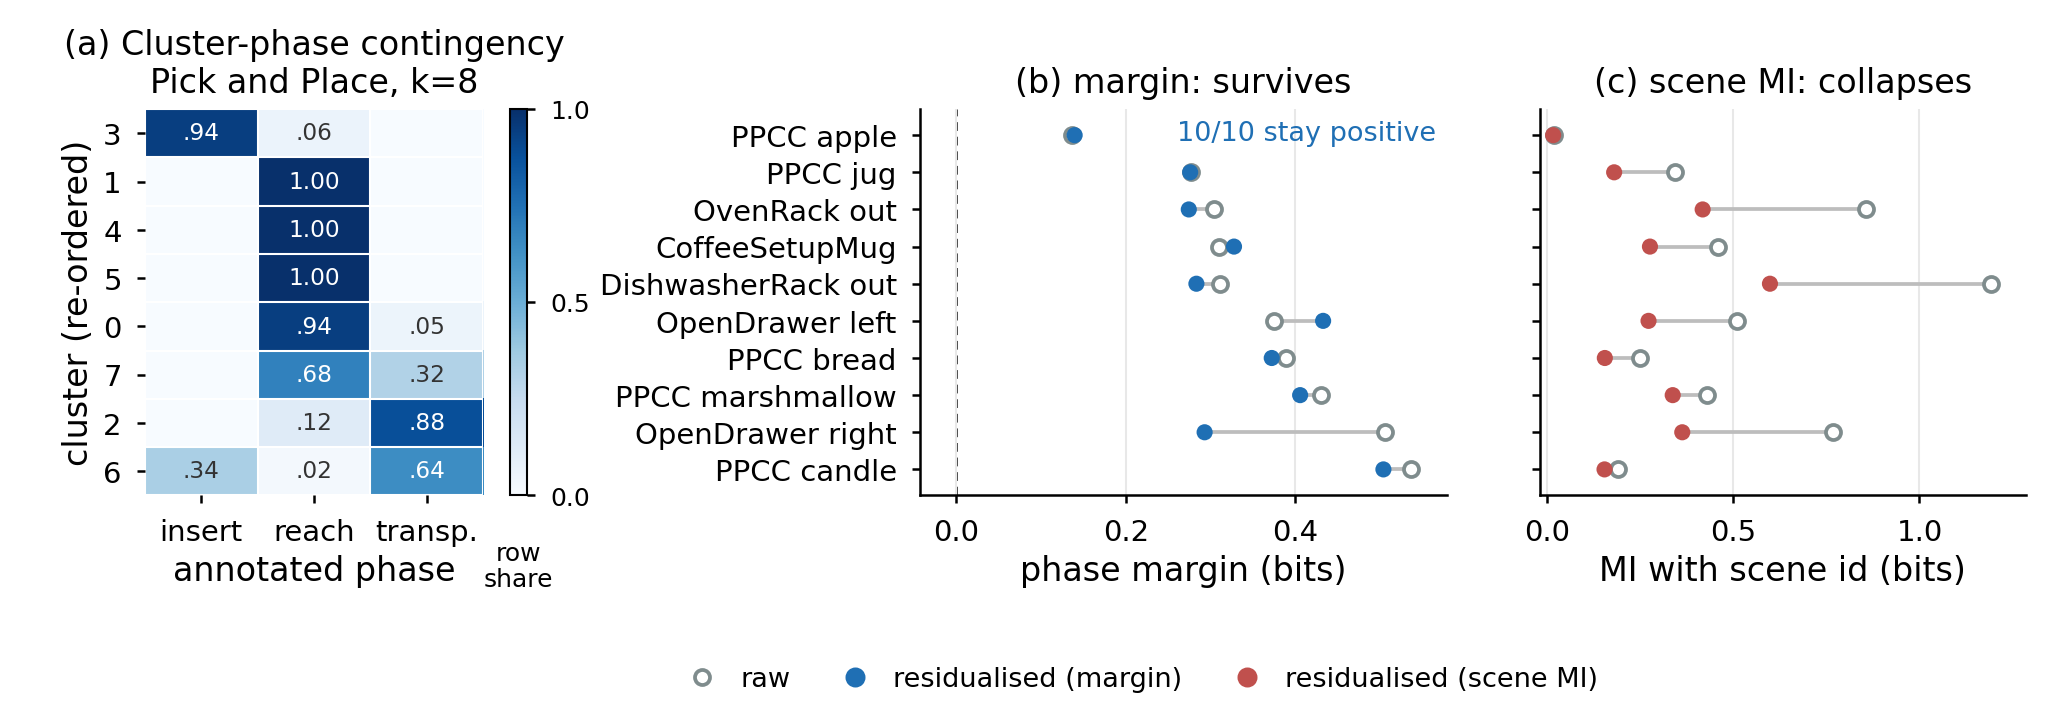
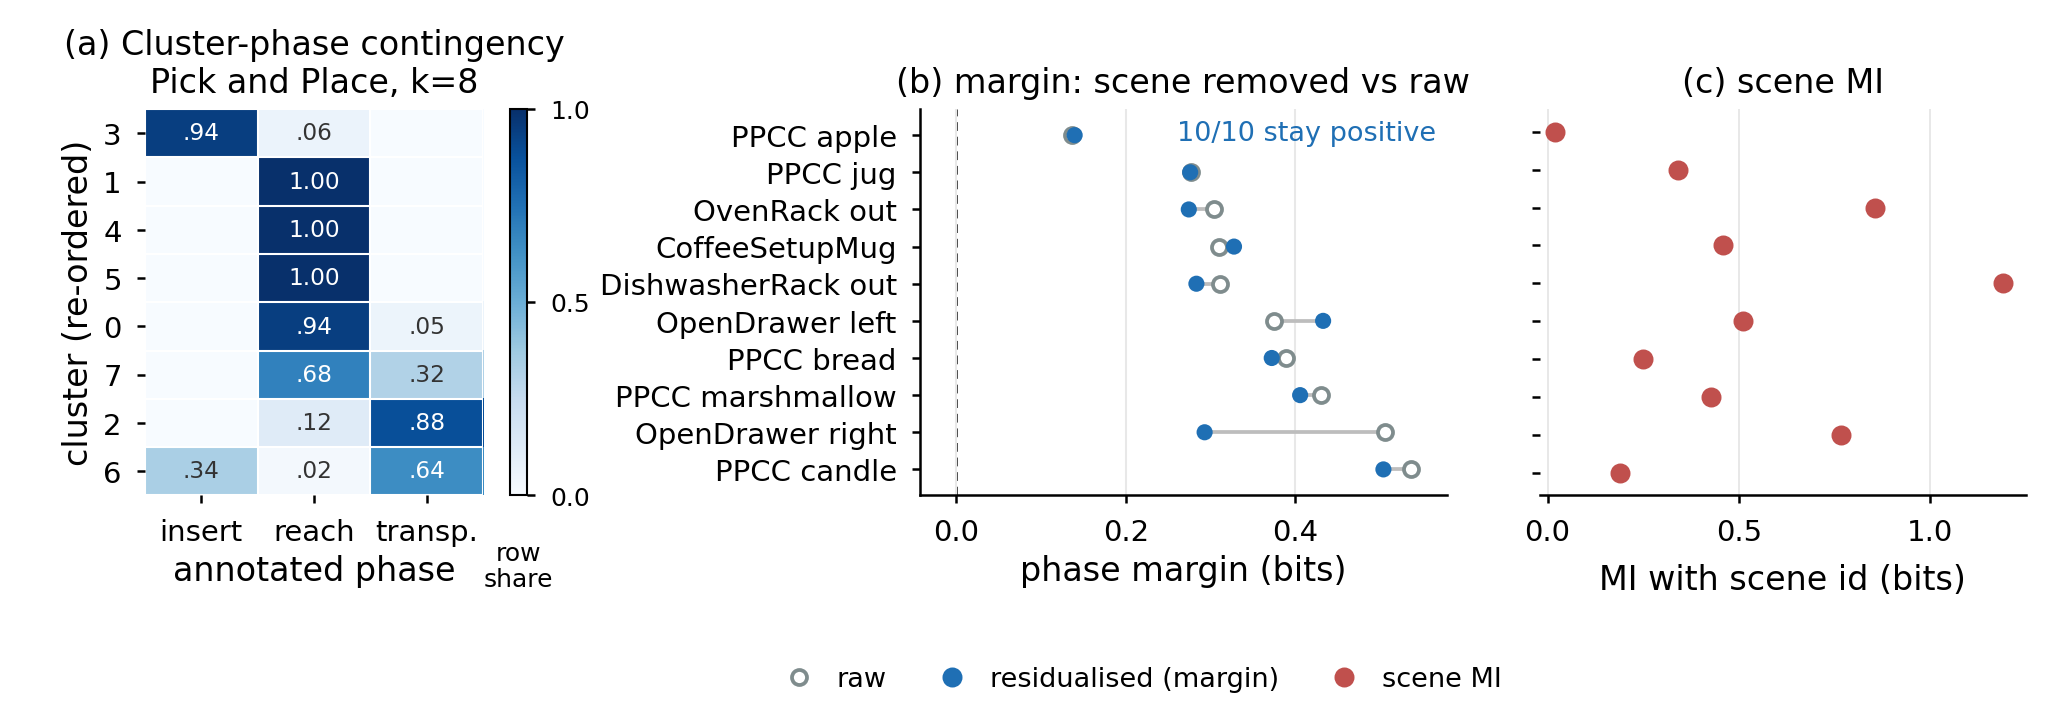
figure: 그림2 (b) 제목을 scene 제거 전후 margin으로, (c)는 raw scene MI 점만 표시·제목 scene MI
Claude-Session: https://claude.ai/code/session_01M7pTmXPjHrVNBRZkde1k9L

diff --git a/manuscript/make_fig1.py b/manuscript/make_fig1.py
@@ -226,19 +226,33 @@ def _dumbbell(ax, rows, key_raw, key_res, color_res, title, xlabel, zero_line):
     return ypos
 
 
+def _scatter_only(ax, rows, key, color, title, xlabel):
+    """dumbbell 없이 값 하나만 점으로 (잔차화 전후 비교가 필요 없는 패널)."""
+    ypos = np.arange(len(rows))[::-1]
+    for y, r in zip(ypos, rows):
+        ax.plot(r[key], y, "o", color=color, markersize=3.8, zorder=3)
+    ax.set_yticks(ypos)
+    ax.set_ylim(ypos.min() - 0.6, ypos.max() + 0.6)
+    ax.set_xlabel(xlabel)
+    ax.set_title(title, fontsize=8, pad=4)
+    ax.grid(axis="x", lw=0.4, alpha=0.35, zorder=0)
+    ax.set_axisbelow(True)
+    ax.set_xlim(left=-0.02)
+    for side in ("top", "right", "left"):
+        ax.spines[side].set_visible(False)
+    return ypos
+
+
 def panel_b(ax_m, ax_s, rows):
     rows = sorted(rows, key=lambda r: r["raw_margin"])
     ypos = _dumbbell(
         ax_m, rows, "raw_margin", "resid_margin", C_MARGIN,
-        "(b) margin: survives", "phase margin (bits)", zero_line=True,
+        "(b) margin: scene removed vs raw", "phase margin (bits)", zero_line=True,
     )
     ax_m.set_yticklabels([short_task(r["task"]) for r in rows], fontsize=7)
-    _dumbbell(
-        ax_s, rows, "raw_mi_scene", "resid_mi_scene", C_SCENE,
-        "(c) scene MI: collapses", "MI with scene id (bits)", zero_line=False,
-    )
+    _scatter_only(ax_s, rows, "raw_mi_scene", C_SCENE,
+                  "(c) scene MI", "MI with scene id (bits)")
     ax_s.set_yticklabels([])
-    ax_s.set_xlim(left=-0.02)
 
     n_pos = sum(
         1 for r in rows if r["task"] != DEGENERATE_TASK and r["resid_margin"] > 0
@@ -267,7 +281,7 @@ def build_legend(fig, rows):
         Line2D([], [], marker="o", ls="none", color=C_MARGIN, markersize=3.8,
                label="residualised (margin)"),
         Line2D([], [], marker="o", ls="none", color=C_SCENE, markersize=3.8,
-               label="residualised (scene MI)"),
+               label="scene MI"),
     ]
     if DEGENERATE_TASK is not None:
         handles.append(Line2D([], [], marker="D", ls="none", color=C_DEGEN,

diff --git a/manuscript/main.tex b/manuscript/main.tex
@@ -71,7 +71,7 @@ Detector의 학습과 평가는 instruction별로 진행하며 dataset은 scene 
 \begin{figure*}[!t]
   \centering
   \includegraphics[width=0.64\textwidth]{figs/fig1_purity_residual.pdf}
-  \caption{(a) Cluster와 GT phase 출현 연관성 행렬. 세로축은 cluster에 임의로 부여한 index이다. 이는 특정 cluster는 특정 phase에 주로 국한되어 나타냄을 보여준다. (b) Activation에서 scene별 평균값을 뺀 후의 phase에 대한 margin은 유지된다. (c) 같은 방식으로 얻은 값으로 scene에 대한 MI를 측정하면 값이 급감한다. 즉, 해당 방식은 scene 정보를 빼주는 것이 맞음을 알 수 있다.}
+  \caption{(a) Cluster와 GT phase 출현 연관성 행렬. 세로축은 cluster에 임의로 부여한 index이다. 이는 특정 cluster는 특정 phase에 주로 국한되어 나타냄을 보여준다. (b) Activation에서 scene별 평균값을 뺀 후의 phase에 대한 margin. (c) Activation이 scene에 대해서 얼마나 설명하는지를 나타내는 그래프.}
   \label{fig:purity}
 \end{figure*}
 \section{결 과}
